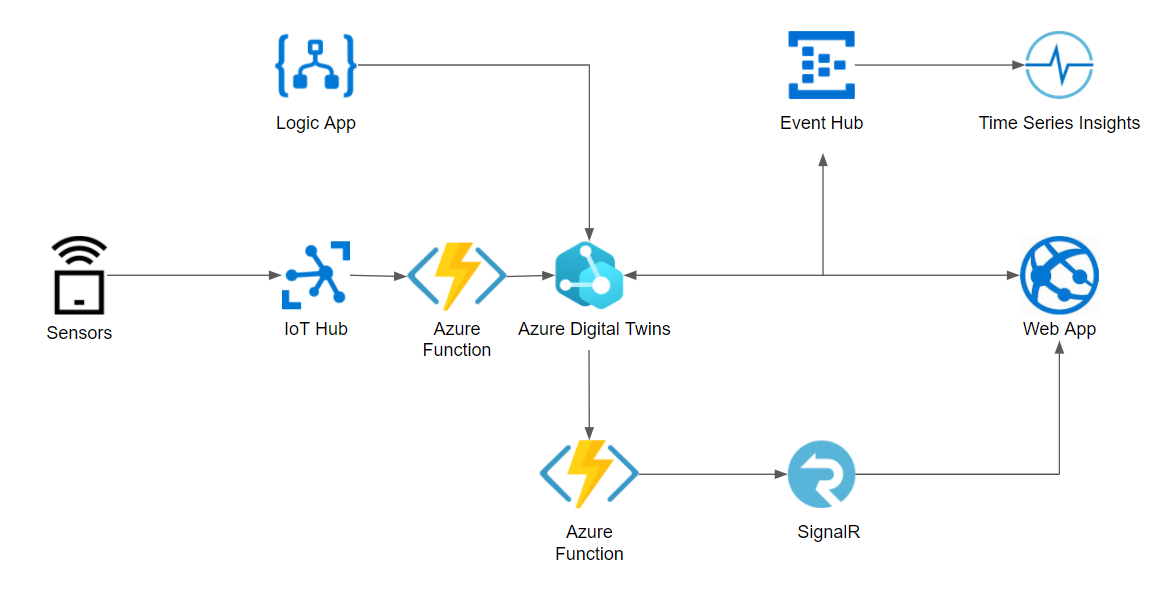
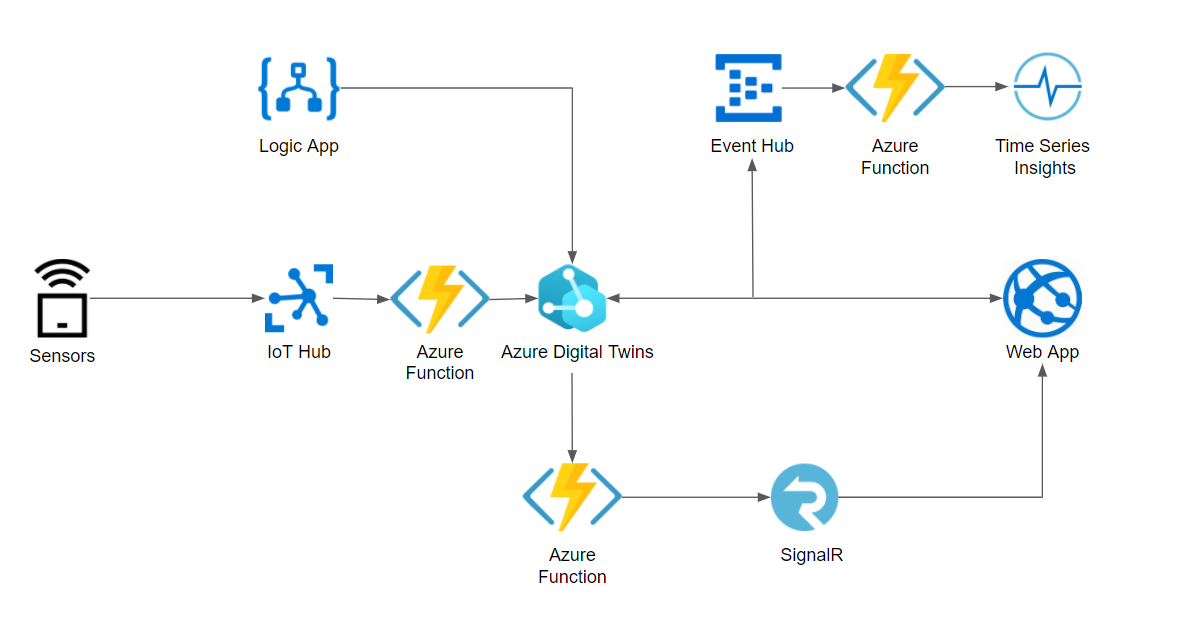
comments

diff --git a/ADT-SupplyChainDemo/README.md b/ADT-SupplyChainDemo/README.md
@@ -3,7 +3,7 @@
 ## Overview
 Azure Digital Twins is a platform as a service (PaaS) offering that enables the creation of knowledge graphs based on digital models of entire environments. These environments could be buildings, factories, farms, energy networks, railways, stadiums, and more—even entire cities. These digital models can be used to gain insights that drive better products, optimized operations, reduced costs, and breakthrough customer experiences. 
 
-The following demos provide a typical implementation via a standalone web app and also a developer focussed version for users to experiment with. 
+The following demos provide implementation guidance via a standalone demo web app and a developer focused backend sample for users to experiment with.
 
 ## Prerequisites
 - Azure CLI ([Download](https://docs.microsoft.com/en-us/cli/azure/install-azure-cli)).
@@ -86,7 +86,7 @@ The following steps will guide you through the standalone web application to exp
 
 The developer version is a backend implementation of the standalone web application. You will be creating multiple Azure resources to simulate and analyze digital twins using the Digital Twin Explorer tool (see the end of the document for usage). You will also be able to explore historical data via a Time Series Insights environment. **This solution will allow you to get hands on with Azure Digital Twins and other Azure services.** 
 
-![arch](./images/arch.png)
+> **NOTE!** Architecture and Digital Twin Explorer tool usage are at the end of this document. 
 
 Follow the steps to deploy the required Azure resources:
 
@@ -230,7 +230,7 @@ Follow the instructions in the Digital Twin Explorers README to connect to your 
 1. Select all the JSON models in the `models` folder.
 1. Select **Open** to upload.
 1. Click **Import Graph** from the graph viewer panel. 
-1. Select the ``models/FullTwins.xlsx` file.
+1. Select the `models/FullTwins.xlsx` file.
 1. Click **Open**.
 1. Click the **Save** icon in the top right of the graph viewer to import twins.
 1. Click **Upload Model Images**  above the search input in the model viewer panel.
@@ -345,26 +345,176 @@ Once you have ran the simulator above you will be able to analyze your data in T
 1. Click **Overview** on the left blade.
 1. Click **Go to TSI Explorer**.
 
+## Solution Architecture
+
+Below is the high-level Architecture of the components in the supply chain demo.
+
+![arch](./images/arch.png)
+
+**Azure IoT Hub**
+
+After you have run the simulator to generate data for you IoT devices, you can see these in Azure using the following steps:
+1. In [Azure portal](https://portal.azure.com/) navigate to the Resource Group you created earlier.
+1. **Select** the **IoT Hub** resource.
+1. **Select** the **IoT Devices** option from the left hand blade to see your devices. 
+
+**Azure Functions**
+
+The first function receives updates from IoT devices via event grid and then updates either telemetry or properties on the twin. You can see the full code in `IotHubToTwin.cs`. Here is a snippet of the update:
+
+```c#
+    private async Task UpdateDigitalTwinProperty(DigitalTwinsClient client, string deviceId, JToken body, string propertyName)
+    {
+      var propertyToken = body[propertyName];
+      if (propertyToken != null)
+      {
+        if (Constants.Telemetries.Contains(propertyName.ToUpper()))
+        {
+          var data = new Dictionary<string, double>();
+          data.Add(propertyName, propertyToken.Value<double>());
+          await client.PublishTelemetryAsync(deviceId, JsonConvert.SerializeObject(data));
+        }
+        else
+        {
+          // Update twin using device property
+          var uou = new UpdateOperationsUtility();
+          uou.AppendReplaceOp($"/{propertyName}", propertyToken.Value<double>());
+          await client.UpdateDigitalTwinAsync(deviceId, uou.Serialize());
+        }
+      }
+    }
+  }
+```
+
+The second function uses the SignalR service to broadcast the stream as telemetry does not have backing storage, therefore, we need a mechanism to display these in our web application. You can see the full code in `SignalRFunctions.cs`. Here is a snippet of the broadcast: 
+
+```c#
+[FunctionName("broadcast")]
+    public static Task SendMessage(
+        [EventGridTrigger] EventGridEvent eventGridEvent,
+        [SignalR(HubName = "dttelemetry")] IAsyncCollector<SignalRMessage> signalRMessages,
+        ILogger log)
+    {
+      if (eventGridEvent == null || !EventMappings.TryGetValue(eventGridEvent.EventType.ToLowerInvariant(), out var target))
+      {
+        log.LogInformation($"Unrecognized event type: {eventGridEvent?.EventType}, skipping");
+        return Task.CompletedTask;
+      }
+
+      var dtName = eventGridEvent.Topic.Split("/", StringSplitOptions.RemoveEmptyEntries).Last();
+      var dtId = eventGridEvent.Subject;
+      var evt = JsonConvert.DeserializeObject<JObject>(eventGridEvent.Data.ToString());
+      var data = evt["data"];
+
+      log.LogInformation($"Received event from {dtName} for {dtId} with content {data.ToString()}");
+
+      return signalRMessages.AddAsync(new SignalRMessage
+      {
+        Target = target,
+        Arguments = new[] { new { dtId, data } }
+      });
+    }
+```
+
+The third function pushes data from the Event Hub to Time Series Insight. You can see the full code in `ProcessDTUpdateToTSI.cs`. Here is a snippet of the update: 
+
+```c#
+    [FunctionName("ProcessDTUpdateToTSI")]
+    public static async Task Run(
+        [EventHubTrigger("twins-event-hub", Connection = "EventHubAppSetting-Twins")]EventData myEventHubMessage,
+        [EventHub("tsi-event-hub", Connection = "EventHubAppSetting-TSI")]IAsyncCollector<string> outputEvents,
+        ILogger log)
+    {
+      JObject message = (JObject)JsonConvert.DeserializeObject(Encoding.UTF8.GetString(myEventHubMessage.Body));
+      log.LogInformation("Reading event:" + message.ToString());
+
+      // Read values that are replaced or added
+      Dictionary<string, object> tsiUpdate = new Dictionary<string, object>();
+      foreach (var operation in message["patch"])
+      {
+        if (operation["op"].ToString() == "replace" || operation["op"].ToString() == "add")
+        {
+          string path = operation["path"].ToString().Substring(1);
+          path = path.Replace("/", ".");
+          tsiUpdate.Add(path, operation["value"]);
+        }
+      }
+      //Send an update if updates exist
+      if (tsiUpdate.Count > 0)
+      {
+        tsiUpdate.Add("$dtId", myEventHubMessage.Properties["cloudEvents:subject"]);
+        tsiUpdate.Add("timestamp", DateTime.Now);
+        await outputEvents.AddAsync(JsonConvert.SerializeObject(tsiUpdate));
+      }
+    }
+  }
+```
+
+**Logic App**
+
+The logic app in this solution is used to simulate the ETA of a shipment that may be typical from an ERP system. You can see how this works by doing the following:
+
+1. In [Azure portal](https://portal.azure.com/) navigate to the Resource Group you created earlier.
+1. **Select** the **Logic App** resource.
+1. **Select** the **Logic app designer** option from the left hand blade to see the flow.
+
+
 ## Digital Twins Explorer usage
 
-The Digital Twins Explorer tool is used to create, analyze and update your digital twins as well as a range of additional features to explore your knowledge graph. The tool is in active development and is updated with new features on a regular basis. More details on the Digital Twins Explorer tool is available in the [GitHub repo](https://github.com/Azure-Samples/digital-twins-explorer).
+The Digital Twins Explorer tool is used to create, analyze and update your digital twins as well as providing a range of additional features to explore your knowledge graph. The tool is in active development and is updated with new features on a regular basis. More details on the Digital Twins Explorer tool is available in the [GitHub repo](https://github.com/Azure-Samples/digital-twins-explorer).
 
 ![Digital Twins Explorer](./images/adt_explorer.png)
 
 Below is an overview of the different windows within the tool.
 
-1. **Query Explorer** - Allows you to use the custom SQL-like Azure Digital Twins query language to query your twin graph. You can also save common queries for future use. For more information see [About the query language for Azure Digital Twins](https://docs.microsoft.com/en-us/azure/digital-twins/concepts-query-language).
-1. **Model View** - The model viewer allows you to upload and view custom models defined in the Digital Twin Definition Language that is based on JSON-LD. You can then create twins from your upload model schema. More info:
+**Query Explorer**- Allows you to use the custom SQL-like Azure Digital Twins query language to query your twin graph. You can also save common queries for future use. For more information see [About the query language for Azure Digital Twins](https://docs.microsoft.com/en-us/azure/digital-twins/concepts-query-language) and [Query the Azure Digital Twins twin graph](https://docs.microsoft.com/en-us/azure/digital-twins/how-to-query-graph).
+
+Usage Examples:
+
+>**IMPORTANT!** Ensure you have Eager Loading turned off in settings if you just want the query results. Eager loading will also bring the child nodes.
+ 
+* Run the query `SELECT * FROM DIGITALTWINS` to view all supply chain artifacts.
+* Run the query `SELECT * FROM DIGITALTWINS WHERE IS_OF_MODEL('dtmi:demo:adtga:warehouse;1')` to see all twins of type Warehouse. 
+* Run the query `SELECT * FROM DIGITALTWINS WHERE IS_DEFINED(Location)` to get all twins that have the Location prpoerty. 
+
+
+**Model View** - The model viewer allows you to upload and view custom models defined in the Digital Twin Definition Language that is based on JSON-LD. You can then create twins from your upload model schema. More info:
     * [Elements of a model](https://docs.microsoft.com/en-us/azure/digital-twins/concepts-models#elements-of-a-model).
     * [Properties vs Telemetry](https://docs.microsoft.com/en-us/azure/digital-twins/concepts-models#properties-vs-telemetry)
     * [Possible Schemas](https://docs.microsoft.com/en-us/azure/digital-twins/concepts-models#possible-schemas)
     * [Model model-inheritance](https://docs.microsoft.com/en-us/azure/digital-twins/concepts-models#model-inheritance)
-1. **Graph View** - Allows users to visually update or view relationships as well as analyze their graph. Clicking on a node shows incoming and outgoing relationships and you can also delete existing twins. Any selected twin will populate the property explorer with relevant data.
-1. **Property Explorer** - When a twin is selected, you will see current property values and also telemetry updates if you are running the simulator. You also can update the property values by performing a patch operation.
-1. **Console (enable via settings cog)** - CLI to run multiple commands. Issue the command `help` for a list of operations. 
-1. **Output (enable via settings cog)** - Shows output from API responses and any other relevant operations. 
+
+Usage Examples:
+* Check your model list, you should see 11 models.
+* **Click** on the "Information" icon next to Factory in the model list and observe how it has relationships to multiple sensors within the factory and also to external shipments. You can also see it has multiple properties.
+* **Click** on the "Information" icon next to Cutter in the model list and see that is has "Speed" as type Telemetry. See link above to understand the difference between Properties and Telemetry.
+* **Click** on the "+" icon next to Conveyor and create a twin called `TestConveyor`. You will see it get added to the graph. We will need this in the next section.
+
+**Graph View** - Allows users to visually update or view relationships as well as analyze their graph. Clicking on a node shows incoming and outgoing relationships and you can also delete existing twins. Any selected twin will populate the property explorer with relevant data.
+
+Usage Examples:
+* **Click** on the factory called "FA4421" or any other factory. 
+* Hold the ctrl or shift key on your keyboard and then click on the `TestConveyor` twin. Both nodes should be highlighted. 
+* **Click**  **Add Relationship** from the top navigation.
+* **Click** **Save** to create the relationship.
+* You will now notice that "TestConveyor" is a now child of "FA4421".
+* You can also **click** on a node and click **Get Relationships** from the navigation bar to see incoming and outgoing relationships.
+
+**Property Explorer** - When a twin is selected, you will see current property values and also telemetry updates if you are running the simulator. You also can update the property values by performing a patch operation.
+
+Usage Example:
+* **Click** on a twin of type shop like "RT4465881".
+* In the property explorer, changes the StockLevel value to 100.
+* **Click** the **Save** icon in the navigation bar.
+* Observe the value has been patched with the replace operation.
+
+**Console (enable via settings cog)** - CLI to run multiple commands. Issue the command `help` for a list of operations. 
+
+**Output (enable via settings cog)** - Shows output from API responses and any other relevant operations. 
 
 **Full documentation is available at [Azure Digital Twins Documentation](https://docs.microsoft.com/en-us/azure/digital-twins/).**
+
+
 
 
  
